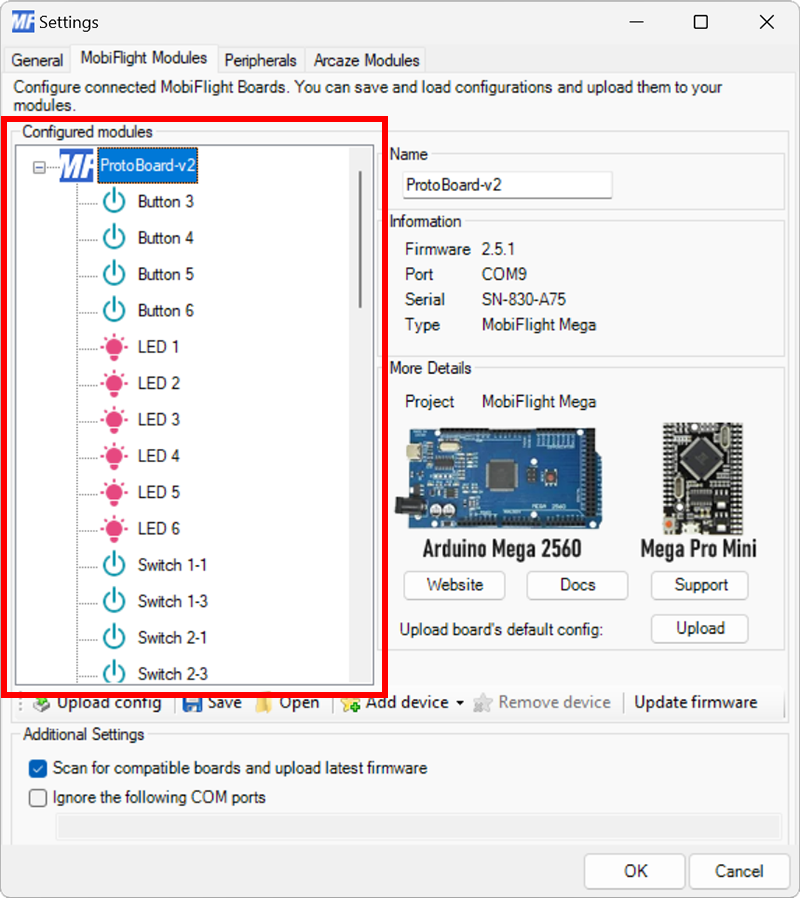
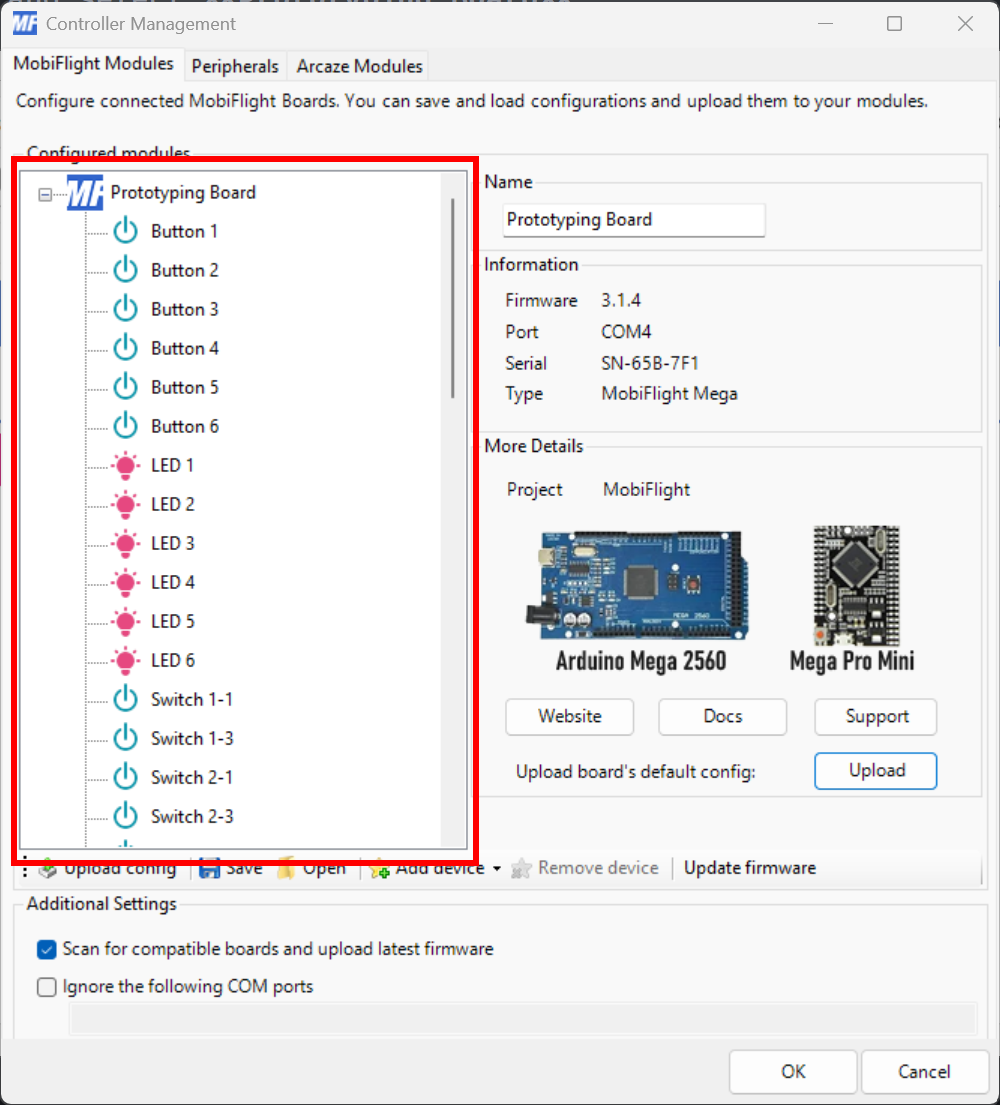
Workshop

diff --git a/content/guides/workshops/installing-configuration/_index.md b/content/guides/workshops/installing-configuration/_index.md
@@ -13,15 +13,11 @@ Use the following steps to upload the configuration to a board.
 
 {{% steps %}}
 
-### Open the settings dialog to edit modules
+### Open the Controller Management dialog
 
-Click on the **Extras** menu and select **Settings** to open the settings dialog.
+Click on the **Extras** menu and select **Controller Management** to open the Controller Management dialog.
 
-{{< screenshot image="/app/extras-settings-menu-item.png" title="Screenshot of the Extras menu with the Settings menu item selected." >}}
-
-Then click on the **MobiFlight Modules** tab to display the modules.
-
-{{< screenshot image="/app/settings-modules-tab.png" title="Screenshot of the Settings dialog with the MobiFlight Modules tab highlighted." >}}
+{{< screenshot image="/app/extras-controller-management-menu-item.png" title="Screenshot of the Extras menu with the Controller Management menu item selected." >}}
 
 ### Select the board
 
@@ -31,7 +27,7 @@ Click on the **MobiFlight Mega** board in the list of connected boards.
 
 ### Upload the configuration
 
-Click on the **Upload** button and select **Prototyping Board (Latest Version)**.
+Click on the **Upload** button and select **Prototyping Board**.
 
 {{< screenshot image="upload-default-config.png" title="Screenshot of the MobiFlight Modules dialog with the Upload button selected." >}}
 
